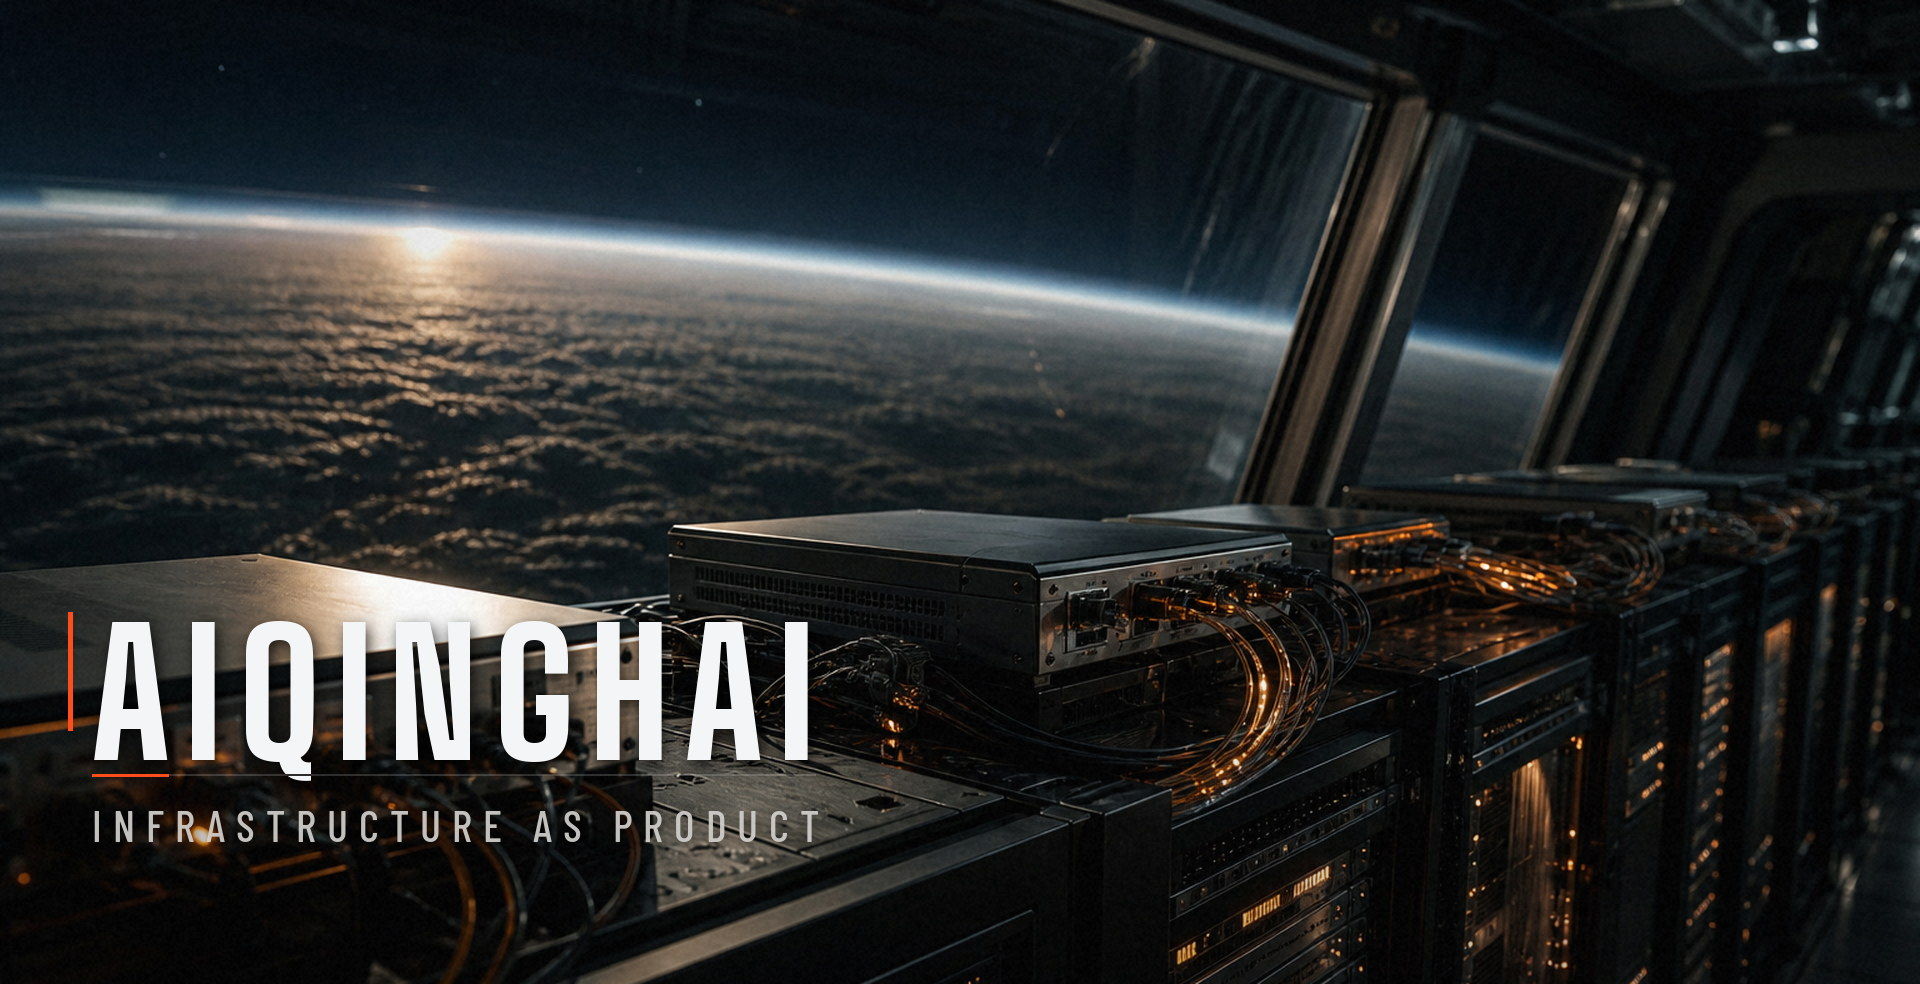
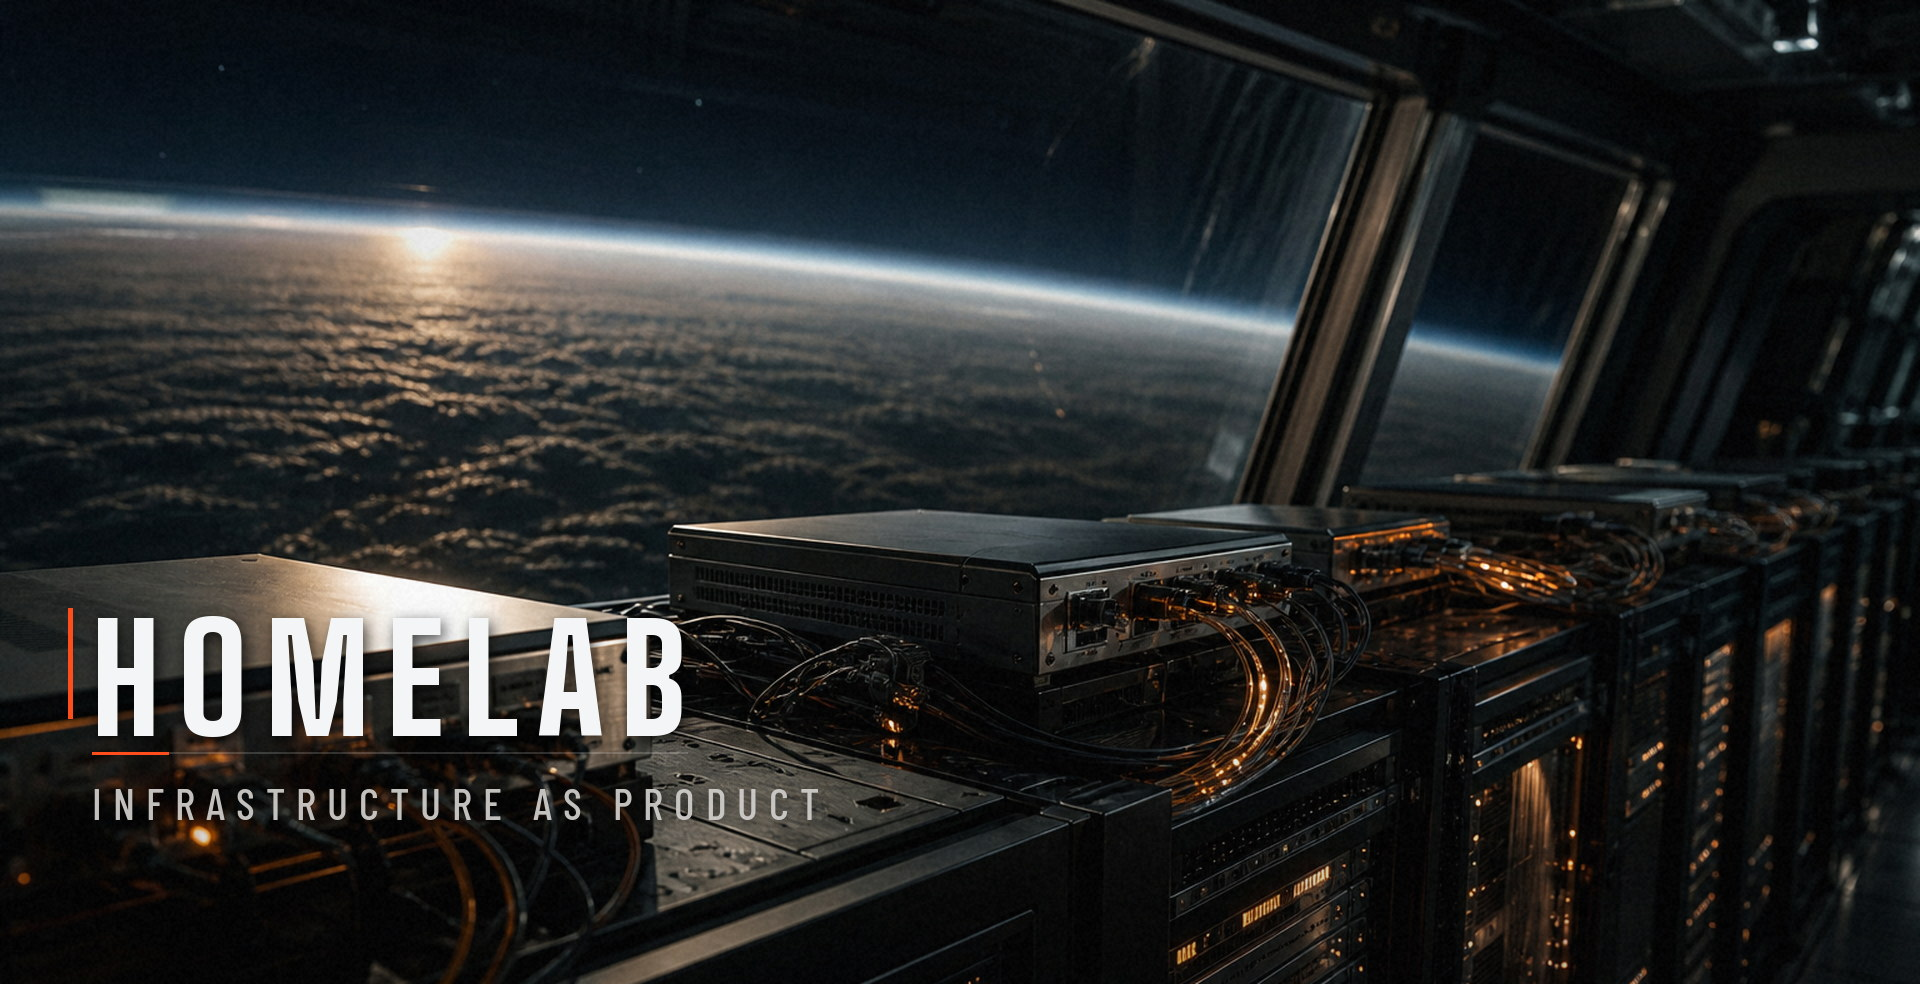
fix: remove personal handle from profile hero wordmark
Use HOMELAB instead of AIQINGHAI so the profile stays nameless.

Changed region(s): [[0.0312, 0.6098, 0.4375, 0.8537]]

diff --git a/README.md b/README.md
@@ -4,7 +4,7 @@
 -->
 
 <p align="center">
-  <img width="100%" src="https://raw.githubusercontent.com/aiqinghaiwork163/aiqinghaiwork163/main/assets/hero.jpg" alt="AIQINGHAI — Infrastructure as product" />
+  <img width="100%" src="https://raw.githubusercontent.com/aiqinghaiwork163/aiqinghaiwork163/main/assets/hero.jpg" alt="Homelab — Infrastructure as product" />
 </p>
 
 <p align="center">
